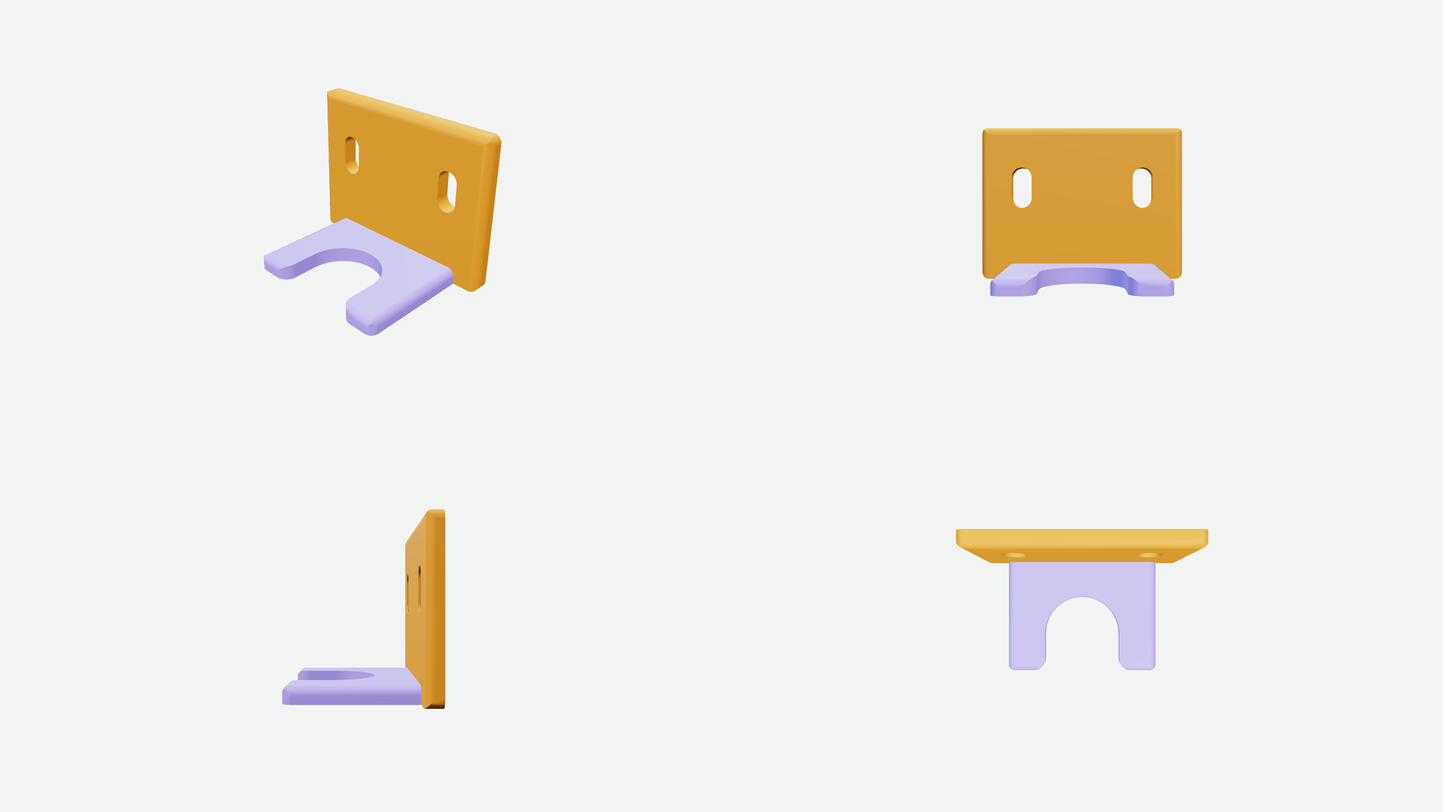
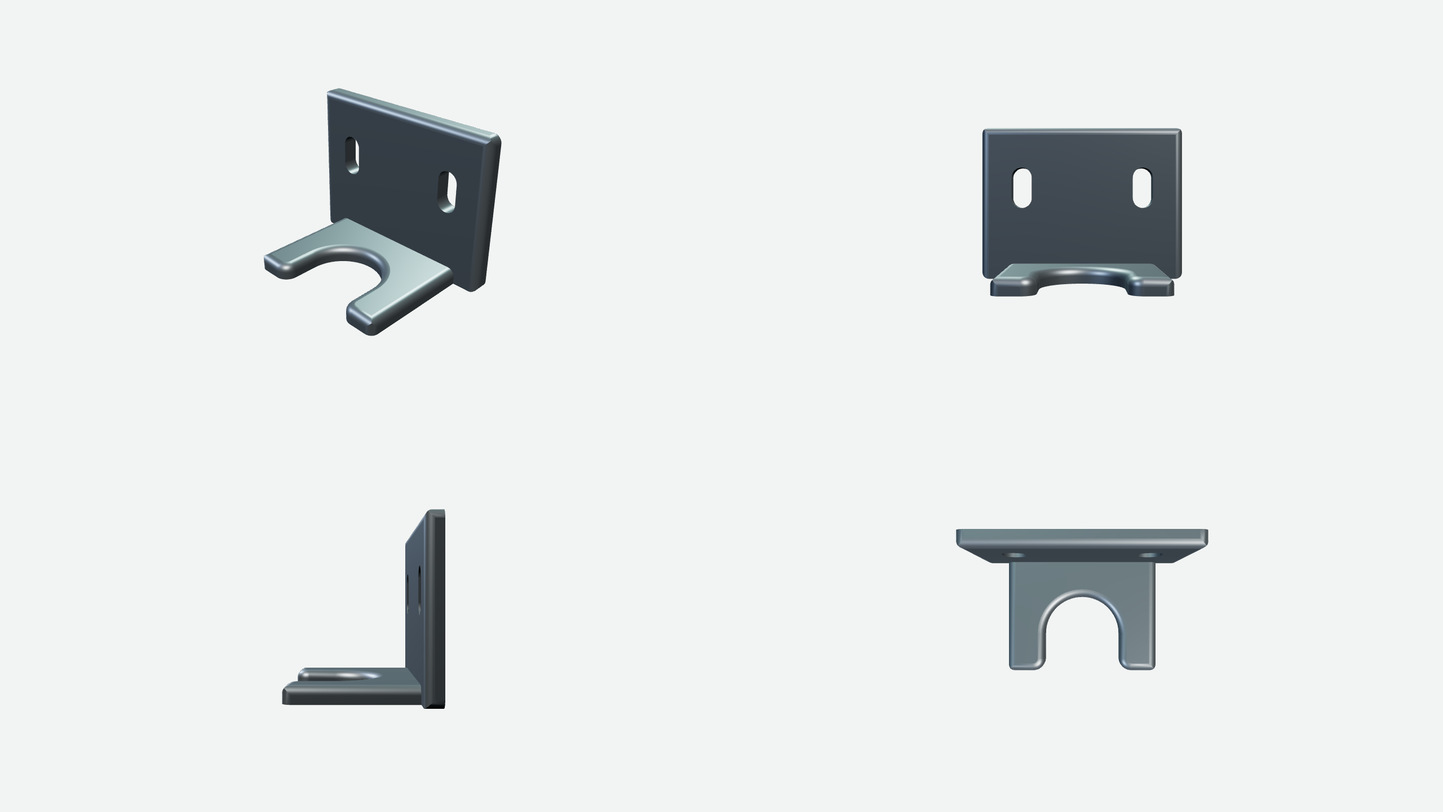
Suporte de tubo usa cadeia nas bordas livres, e o degrau reprova no descrever e no guarda:acervo
A aba do tubo arredonda a borda livre de cima (as duas bordas, as concordâncias e o
recorte) numa chamada com cadeia, antes das laterais e dos cantos livres, e sai do
descrever sem aviso. O veredito do descrever passa a reprovar aviso de degrau com a
mensagem dele (guarda:acervo herda, e --sem-veredito só mostra); os outros avisos
seguem informativos. As outras quatro peças do acervo não tinham degrau. Composta das
quatro vistas refeita com a peça nova.

Claude-Session: https://claude.ai/code/session_015i1y8CrgTgEfwGG2HEX8g8

diff --git a/procedural/nucleo/uso-operacoes.js b/procedural/nucleo/uso-operacoes.js
@@ -207,7 +207,7 @@ const definicoes = {
   espelha: { intencao: 'Duplicar faces refletidas, com modo estrutural opcional.', campos: { eixo: ['eixo', 'Normal do plano de espelho.'], pos: ['escalar', 'Posição do plano.'], [selecao[0]]: selecao.slice(1), [faces[0]]: faces.slice(1), origemId: ['origemId', 'Identidade da saída estrutural.'], derivaDe: ['origem', 'Origem completa copiada no modo estrutural.'] }, obrigatorios: ['eixo'], passos: cuboBase([['espelha', { eixo: 'x', origemId: 9, derivaDe: { op: 'cubo', id: 1 }, sel: { origem: { op: 'cubo', id: 1 } } }]]), precondicoes: ['Modo estrutural exige origemId, derivaDe e sel.origem equivalentes.'] },
   arranja: { intencao: 'Criar cópias lineares ou radiais com identidade estrutural.', campos: { modo: ['texto', "'linear' ou 'radial'."], total: ['inteiro', 'Total incluindo a fonte.'], d: ['vetor3', 'Passo linear.'], eixo: ['eixo', 'Eixo radial.'], graus: ['escalar', 'Passo angular.'], volta: ['escalar', 'Arco fechado.'], pivo: ['vetor3', 'Pivô radial.'], origemId: ['origemId', 'Identidade das cópias.'], derivaDe: ['origem', 'Origem-fonte.'], [selecao[0]]: selecao.slice(1), [faces[0]]: faces.slice(1), nomes: ['listaTextos', 'Um nome por cópia, total-1.'] }, obrigatorios: ['modo', 'total'], passos: cuboBase([['arranja', { modo: 'linear', total: 2, d: [2, 0, 0], origemId: 9, derivaDe: { op: 'cubo', id: 1 }, sel: { origem: { op: 'cubo', id: 1 } }, nomes: ['copia'] }]]), precondicoes: ['Modo estrutural requer origemId, derivaDe e seleção da origem completa.'], limites: ['Repetição radial é UMA descrição: seis abas de maça saem de um arranja radial com volta 360 e total 6. Descrever seis abas à mão é seis lugares para errar. Nomeie as cópias, porque posição não é identidade.'] },
   furo: { intencao: 'Abrir um ou vários furos estruturais passantes ou cegos.', campos: { origemId: ['origemId', 'Identidade obrigatória do corte.'], de: ['origem', 'Face de entrada.'], saida: ['origem', 'Face de saída no modo passante.'], profundidade: ['escalar', 'Profundidade no modo cego.'], centro: ['vetor3', 'Centro de um furo.'], centros: ['lista', 'Centros/grupos de vários furos.'], ate: ['vetor3', 'Segundo centro de um rasgo.'], raio: ['escalar', 'Raio positivo.'], lados: ['inteiro', 'Resolução da parede.'], orientacao: ['vetor3', 'Referência no plano da entrada.'] }, obrigatorios: ['origemId', 'de'], passos: [['cilindro', { origemId: 1, raio: 1, altura: 0.5, lados: 12 }], ['furo', { origemId: 9, de: { op: 'cilindro', id: 1, tampa: 'topo' }, saida: { op: 'cilindro', id: 1, tampa: 'fundo' }, centro: [0, 0.5, 0], raio: 0.15, lados: 8, orientacao: [1, 0, 0] }]], precondicoes: ['Declare centro ou centros e exatamente um entre saida e profundidade.'], limites: ['lados precisa ser ≡ 2 (mod 4) — 10, 14 ou 18, nunca múltiplo de 4. A seção começa com um vértice em 0°, então múltiplo de 4 põe outro VÉRTICE no topo, a 90°, e um furo centrado no eixo cai entre duas faces e não cabe em nenhuma. Foi o que destravou o olho do machado depois de lados:16 recusar em todas as estações.', 'de precisa resolver para exatamente UMA face, e ela precisa ser grande o bastante e plana. O furo tem de caber na face de entrada E na de saída, e as duas precisam se enxergar: com lados:12 o lado 2 enxerga o 9, e o 2 com o 8 não.', 'O furo CONSOME as faces de entrada e saída, que viram a borda anular do corte, e a origem antiga passa a ser recusada inteira. Una as duas origens num ALIAS, ou ponha a peça furada como primeira geometria e use sel:{tudo:true}.'] },
-  arredondarAresta: { intencao: 'Substituir uma aresta convexa por múltiplos painéis de raio geométrico.', campos: { origemId: ['origemId', 'Identidade da saída.'], de: ['origem', 'Face que contém a aresta (com aresta); não misture com sel.'], aresta: ['inteiro', 'Índice local da aresta na face de.'], [selecao[0]]: ['selecao', "Em vez de de + aresta: seleção que resolva para EXATAMENTE uma aresta, por exemplo {origem:{op:'cubo',id:1}, onde:{alvo:'aresta', normal:{dir:[0,1,0],ate:5}, extremo:{eixo:'z',lado:'max'}}}."], raio: ['escalar', 'Raio positivo.'], paineis: ['inteiro', 'Quantidade de painéis, mínimo 2.'], cadeia: ['booleanoOuObjeto', "Arredonda de uma vez a cadeia de arestas que continua em tangência a partir da escolhida, até o canto vivo ou até fechar o laço: true ou {ate: graus}, o ângulo máximo entre arestas consecutivas da cadeia (padrão 30)."] }, obrigatorios: ['origemId', 'raio', 'paineis'], passos: cuboBase([['arredondarAresta', { origemId: 9, de: origemTopo, aresta: 0, raio: 0.1, paineis: 2 }]]), precondicoes: ['Declare de + aresta ou sel, nunca os dois.'], limites: ['Cada lado da aresta é uma face convexa ou um grupo de faces coplanares que se tocam por aresta, como a tampa partida de um perfil com furo ou de um contorno por trechos.', 'Num grupo, o raio é conferido contra todos os vértices dele e recusa com o vértice quando não cabe; peça de tampa que uma quina quase reta deixa côncava é partida em peças convexas, e a recusa fica para o que se atravessa ou se inverte. O canto da tampa partida em leque (a chapa com furos vista de cima, com a aresta ao longo da espessura) arredonda; o remate de uma segunda aresta sobre ele pede a tampa partida em outra ordem: arredonde antes as arestas da tampa e depois as do canto. Onde a face de ponta é quase paralela à aresta (borda livre que termina numa concordância do contorno) e o arco não cabe no plano dela, o arco termina na seção perpendicular, com um degrau plano, e a faixa volta a ser citável pela origem sem `painel`.', 'Onde a ponta da aresta já é ponta de uma faixa arredondada ou chanfrada por outra aresta, o canto fecha em esquadria (cantos-arredondados.js): o mesmo raio e o mesmo número de painéis nas arestas do canto, arestas a 90°, e número par de painéis onde três arestas se encontram. Fora disso o passo recusa com a causa e a malha fica como estava.', 'Com sel, a face de apoio é a de menor id entre as que usam a aresta.', 'Onde a ponta da aresta encontra uma face quase paralela a ela (a faceta de uma concordância que continua a borda em tangência), o arco não cabe no plano da vizinha e termina na seção perpendicular, com um degrau plano: o resultado traz um aviso em neutro.avisos (ref degrau, com a aresta, o motivo e a sugestão) e o descrever o mostra na seção AVISOS DO NÚCLEO, sem reprovar a peça.', 'cadeia (true, ou {ate: graus}, 30 por padrão) arredonda numa varredura só a aresta escolhida e as que continuam em tangência a partir dela, até um canto vivo (onde a aresta seguinte dobra mais que ate graus) ou até fechar o laço: sem tampa nem degrau nas junções, com o raio podendo passar do comprimento das facetas. A tampa é um grupo de faces coplanares e as paredes são perpendiculares a ela (extrusão reta, furo ou recorte de contorno por trechos); o anel de cada vértice é a seção no plano bissetor das duas arestas vizinhas e a faixa sai aresta por aresta, nos painéis de `{op:\'arredondarAresta\', id}`. Recusa, sem escrever, o diedro diferente de 90°, o raio que passa da altura da parede ou do raio de curvatura de um trecho convexo do contorno (o recorte côncavo não limita), a ponta aguda demais, a ponta em tangência que a cadeia não seguiu, o vértice da tampa mais perto que o raio e a cadeia que volta ao próprio vértice. Arredonde a cadeia antes das arestas do canto.'] },
+  arredondarAresta: { intencao: 'Substituir uma aresta convexa por múltiplos painéis de raio geométrico.', campos: { origemId: ['origemId', 'Identidade da saída.'], de: ['origem', 'Face que contém a aresta (com aresta); não misture com sel.'], aresta: ['inteiro', 'Índice local da aresta na face de.'], [selecao[0]]: ['selecao', "Em vez de de + aresta: seleção que resolva para EXATAMENTE uma aresta, por exemplo {origem:{op:'cubo',id:1}, onde:{alvo:'aresta', normal:{dir:[0,1,0],ate:5}, extremo:{eixo:'z',lado:'max'}}}."], raio: ['escalar', 'Raio positivo.'], paineis: ['inteiro', 'Quantidade de painéis, mínimo 2.'], cadeia: ['booleanoOuObjeto', "Arredonda de uma vez a cadeia de arestas que continua em tangência a partir da escolhida, até o canto vivo ou até fechar o laço: true ou {ate: graus}, o ângulo máximo entre arestas consecutivas da cadeia (padrão 30)."] }, obrigatorios: ['origemId', 'raio', 'paineis'], passos: cuboBase([['arredondarAresta', { origemId: 9, de: origemTopo, aresta: 0, raio: 0.1, paineis: 2 }]]), precondicoes: ['Declare de + aresta ou sel, nunca os dois.'], limites: ['Cada lado da aresta é uma face convexa ou um grupo de faces coplanares que se tocam por aresta, como a tampa partida de um perfil com furo ou de um contorno por trechos.', 'Num grupo, o raio é conferido contra todos os vértices dele e recusa com o vértice quando não cabe; peça de tampa que uma quina quase reta deixa côncava é partida em peças convexas, e a recusa fica para o que se atravessa ou se inverte. O canto da tampa partida em leque (a chapa com furos vista de cima, com a aresta ao longo da espessura) arredonda; o remate de uma segunda aresta sobre ele pede a tampa partida em outra ordem: arredonde antes as arestas da tampa e depois as do canto. Onde a face de ponta é quase paralela à aresta (borda livre que termina numa concordância do contorno) e o arco não cabe no plano dela, o arco termina na seção perpendicular, com um degrau plano, e a faixa volta a ser citável pela origem sem `painel`.', 'Onde a ponta da aresta já é ponta de uma faixa arredondada ou chanfrada por outra aresta, o canto fecha em esquadria (cantos-arredondados.js): o mesmo raio e o mesmo número de painéis nas arestas do canto, arestas a 90°, e número par de painéis onde três arestas se encontram. Fora disso o passo recusa com a causa e a malha fica como estava.', 'Com sel, a face de apoio é a de menor id entre as que usam a aresta.', 'Onde a ponta da aresta encontra uma face quase paralela a ela (a faceta de uma concordância que continua a borda em tangência), o arco não cabe no plano da vizinha e termina na seção perpendicular, com um degrau plano: o resultado traz um aviso em neutro.avisos (ref degrau, com a aresta, o motivo e a sugestão) e o descrever o mostra na seção AVISOS DO NÚCLEO e reprova o veredito da peça (guarda:acervo inclusive).', 'cadeia (true, ou {ate: graus}, 30 por padrão) arredonda numa varredura só a aresta escolhida e as que continuam em tangência a partir dela, até um canto vivo (onde a aresta seguinte dobra mais que ate graus) ou até fechar o laço: sem tampa nem degrau nas junções, com o raio podendo passar do comprimento das facetas. A tampa é um grupo de faces coplanares e as paredes são perpendiculares a ela (extrusão reta, furo ou recorte de contorno por trechos); o anel de cada vértice é a seção no plano bissetor das duas arestas vizinhas e a faixa sai aresta por aresta, nos painéis de `{op:\'arredondarAresta\', id}`. Recusa, sem escrever, o diedro diferente de 90°, o raio que passa da altura da parede ou do raio de curvatura de um trecho convexo do contorno (o recorte côncavo não limita), a ponta aguda demais, a ponta em tangência que a cadeia não seguiu, o vértice da tampa mais perto que o raio e a cadeia que volta ao próprio vértice. Arredonde a cadeia antes das arestas do canto.'] },
   filete: { intencao: 'Criar chanfro plano compatível com o filete v1.', campos: { origemId: ['origemId', 'Identidade da saída.'], de: ['origem', 'Face que contém a aresta (com aresta); não misture com sel.'], aresta: ['inteiro', 'Índice local da aresta na face de.'], [selecao[0]]: ['selecao', "Em vez de de + aresta: seleção que resolva para EXATAMENTE uma aresta, por exemplo {origem:{op:'cubo',id:1}, onde:{alvo:'aresta', normal:{dir:[0,1,0],ate:5}, extremo:{eixo:'z',lado:'max'}}}."], raio: ['escalar', 'Recuo do painel.'] }, obrigatorios: ['origemId'], passos: cuboBase([['filete', { origemId: 9, sel: { origem: { op: 'cubo', id: 1 }, onde: { alvo: 'aresta', normal: { dir: [0, 1, 0], ate: 5 }, extremo: { eixo: 'z', lado: 'max' } } }, raio: 0.1 }]]), precondicoes: ['Declare de + aresta ou sel, nunca os dois.'], limites: ['Não é arredondamento multi-painel. O canto de duas arestas chanfradas fecha em esquadria; o de três é recusado, porque o vértice triplo pede um número par de painéis.', 'Numa tampa partida (grupo de faces coplanares) o recuo é conferido contra todos os vértices do grupo e recusa quando não cabe; o canto em leque, a peça de tampa que fica côncava e a ponta oblíqua seguem as regras do `arredondarAresta`.', 'Com sel, a face de apoio é a de menor id entre as que usam a aresta.'] },
   unir: { intencao: 'Fundir dois ou mais sólidos fechados numa superfície fechada só, sem face interna.', campos: { origemId: ['origemId', 'Identidade obrigatória do resultado e da costura.'], solidos: ['lista', 'Duas ou mais seleções, uma por sólido.'] }, obrigatorios: ['origemId', 'solidos'], passos: [['cubo', { origemId: 1, lado: 1 }], ['cubo', { origemId: 2, lado: 1, em: [0.5, 0.5, 0.5] }], ['unir', { origemId: 9, solidos: [{ origem: { op: 'cubo', id: 1 } }, { origem: { op: 'cubo', id: 2 } }] }]], precondicoes: ['Cada seleção precisa formar um sólido fechado e orientado depois de soldar cantos coincidentes; duas seleções não dividem face.'], limites: ['Face não tocada mantém id e cantos; face cortada mantém o id no maior pedaço convexo; pedaço a mais ganha id novo no bloco do passo; face que some é consumida e a citação dela grita.', 'Cite a costura com {op:\'unir\', id, costura:true}.', 'Resultado vazio grita.'] },
   subtrair: { intencao: 'Tirar do primeiro sólido o volume dos demais.', campos: { origemId: ['origemId', 'Identidade obrigatória do resultado e da costura.'], solidos: ['lista', 'Duas ou mais seleções: a primeira é a peça, as demais são tiradas dela.'] }, obrigatorios: ['origemId', 'solidos'], passos: [['cubo', { origemId: 1, lado: 1 }], ['cubo', { origemId: 2, lado: 1, em: [0.5, 0.5, 0.5] }], ['subtrair', { origemId: 9, solidos: [{ origem: { op: 'cubo', id: 1 } }, { origem: { op: 'cubo', id: 2 } }] }]], precondicoes: ['Cada seleção precisa formar um sólido fechado e orientado depois de soldar cantos coincidentes; duas seleções não dividem face.'], limites: ['Face não tocada mantém id e cantos; face cortada mantém o id no maior pedaço convexo; pedaço a mais ganha id novo no bloco do passo; face que some é consumida e a citação dela grita.', 'Cite a costura com {op:\'subtrair\', id, costura:true}.', 'Resultado vazio grita.'] },

diff --git a/procedural/pecas/suporte-tubo/receita.js b/procedural/pecas/suporte-tubo/receita.js
@@ -31,9 +31,11 @@
  * baixo ficam vivas, e uma chapa de 6 mm não comporta 3 mm de arredondamento nas
  * duas faces da mesma borda. Os furos e o recorte ficam com a aresta viva.
  *
- * As duas bordas livres da face de cima da aba do tubo são separadas pelo recorte e
- * têm o mesmo extremo em z; cada uma é escolhida pela `regiao` da face de ponta
- * dela, que sai da tabela.
+ * As duas bordas livres da face de cima da aba do tubo e o contorno do recorte são uma
+ * cadeia só em tangência, de um canto vivo ao outro, arredondada por `cadeia` numa
+ * chamada, sem degrau. As duas bordas têm o mesmo extremo em z; a aresta de partida é
+ * escolhida pela `regiao` da face de ponta da borda da direita, que sai da tabela, e a
+ * cadeia vem antes das laterais e dos cantos livres.
  */
 
 export const TABELA = {
@@ -130,7 +132,7 @@ export function derivar(t = TABELA) {
           { reto: [-Lt / 2, zFora] },
         ],
       },
-      pontaLivre: { direita: pontaLivre(1), esquerda: pontaLivre(-1) },
+      pontaLivre: { direita: pontaLivre(1) },
     },
   };
 }
@@ -156,12 +158,13 @@ const ARESTAS_PAREDE = [
   { nome: 'canto de baixo à esquerda', normal: 'baixo', eixo: 'x', lado: 'min' },
 ];
 const ARESTAS_TUBO = [
-  { nome: 'canto livre à direita', normal: 'direita', eixo: 'z', lado: 'max' },
-  { nome: 'canto livre à esquerda', normal: 'esquerda', eixo: 'z', lado: 'max' },
+  /* A borda livre de cima é uma cadeia só: reto, concordância, reto, semicírculo do recorte, reto, concordância e reto, de um
+     canto vivo ao outro. Uma chamada com `cadeia` a arredonda sem degrau, e ela vem antes das laterais e dos cantos livres. */
+  { nome: 'borda livre de cima', cadeia: true, dentro: 'pontaDireita', normal: 'cima', eixo: 'z', lado: 'max' },
   { nome: 'borda lateral direita de cima', normal: 'cima', eixo: 'x', lado: 'max' },
   { nome: 'borda lateral esquerda de cima', normal: 'cima', eixo: 'x', lado: 'min' },
-  { nome: 'borda livre de cima à direita', dentro: 'pontaDireita', normal: 'cima', eixo: 'z', lado: 'max' },
-  { nome: 'borda livre de cima à esquerda', dentro: 'pontaEsquerda', normal: 'cima', eixo: 'z', lado: 'max' },
+  { nome: 'canto livre à direita', normal: 'direita', eixo: 'z', lado: 'max' },
+  { nome: 'canto livre à esquerda', normal: 'esquerda', eixo: 'z', lado: 'max' },
 ];
 
 const idDoArredondamento = (base, aresta, arestas) => base + arestas.indexOf(aresta);
@@ -193,13 +196,13 @@ export function gerarPassos(t = TABELA) {
     const dentro = {
       padrao: { origem: { op: 'extrusao', id: extrusao } },
       pontaDireita: { regiao: P.abaTubo.pontaLivre.direita },
-      pontaEsquerda: { regiao: P.abaTubo.pontaLivre.esquerda },
     };
     for (const aresta of arestas) {
       passos.push(['arredondarAresta', {
         origemId: idDoArredondamento(base, aresta, arestas),
         raio: P.raioDoArredondamento,
         paineis: t.paineisDoArredondamento,
+        ...(aresta.cadeia ? { cadeia: true } : {}),
         sel: {
           ...dentro[aresta.dentro ?? 'padrao'],
           onde: { alvo: 'aresta', normal: { dir: NORMAL[aresta.normal], ate: 5 }, extremo: { eixo: aresta.eixo, lado: aresta.lado } },

diff --git a/procedural/nucleo/operacoes/aviso-de-degrau.test.ts b/procedural/nucleo/operacoes/aviso-de-degrau.test.ts
@@ -124,14 +124,26 @@ describe('o veredito da peça e a descrição mostram o aviso', () => {
     expect(formatarDescricao(d, { peca: 'aba-do-tubo' })).not.toMatch(/AVISOS DO NÚCLEO/);
   });
 
-  it('descrever mostra o aviso na saída e na saída de erro, sem reprovar a peça', async () => {
+  it('descrever reprova o degrau com a mensagem do aviso, e a peça sem veredito só o mostra', async () => {
     const receita = { meta: { nome: 'aba-do-tubo' }, PASSOS: passos };
     const r = await descreverPecaReutilizavel({ peca: 'aba-do-tubo', modulo: receita });
-    expect(r.ok, r.stderr).toBe(true);
-    expect(r.codigo).toBe(0);
+    expect(r.ok).toBe(false);
+    expect(r.codigo).toBe(1);
     expect(r.stdout).toMatch(/AVISOS DO NÚCLEO \(1\)/);
-    expect(r.stderr).toMatch(/1 AVISO\(S\) DO NÚCLEO/);
-    expect(r.resultado.avisos).toHaveLength(1);
+    expect(r.stderr).toMatch(/1 ARREDONDAMENTO\(S\) TERMINADO\(S\) EM DEGRAU/);
+    expect(r.stderr).toContain(r.resultado.avisos[0].motivo);
+    expect(r.stderr).toMatch(/sugestão: .*cadeia/);
     expect(r.resultado.avisos[0].ref).toBe('degrau');
+    const sem = await descreverPecaReutilizavel({ peca: 'aba-do-tubo', modulo: receita, semVeredito: true });
+    expect(sem.ok, sem.stderr).toBe(true);
+    expect(sem.stderr).toMatch(/1 AVISO\(S\) DO NÚCLEO/);
+  });
+
+  it('com cadeia no mesmo passo o veredito passa sem aviso', async () => {
+    const ok = comParte([abaDoTubo(), ['arredondarAresta', { origemId: 2, raio: mm(3), paineis: PAINEIS, cadeia: true, sel: bordaLivreDaDireita }]]);
+    const r = await descreverPecaReutilizavel({ peca: 'aba-do-tubo', modulo: { meta: { nome: 'aba-do-tubo' }, PASSOS: ok } });
+    expect(r.ok, r.stderr).toBe(true);
+    expect(r.resultado.avisos).toEqual([]);
+    expect(r.stdout).not.toMatch(/AVISOS DO NÚCLEO/);
   });
 });

diff --git a/docs/mecanifica/UPSTREAM-NOS.md b/docs/mecanifica/UPSTREAM-NOS.md
@@ -25,7 +25,7 @@ autoriza implementação ou alteração no repositório original.
 | `arredondarAresta` e `filete` numa tampa partida (perfil com furo ou contorno por trechos) | entregue no núcleo, provado por teste: as faces coplanares que se tocam por aresta contam como uma face só; duas bordas do topo de uma chapa com furo oblongo e de um contorno com arco arredondadas em 3 mm por `sel.onde`, com casca fechada, faces planas fora da faixa, raio medido por três pontos, volume retirado conferido e recusa clara quando o raio passa de um vértice da tampa | `procedural/nucleo/operacoes/arestas-em-grupos.js`, `operacoes/estruturais.js`, `operacoes/arredondar-tampa-partida.test.ts` | a tangência escorrega ao longo da aresta vizinha até o plano da face de ponta; o canto composto de uma tampa partida é recusado; mexe só em `estruturais.js` e num arquivo novo, e as faces de um lado só seguem pelo caminho antigo |
 | o canto onde duas ou três arestas de `arredondarAresta` ou `filete` se encontram | entregue no núcleo, provado por teste: a caixa de 100 mm com as 12 arestas arredondadas por `sel.onde` (80 vértices, 78 faces, todas planas, os 78 planos conferidos contra os calculados à mão, raio medido em cada ponto de painel) e a chapa com furo com as quatro bordas do topo (volume retirado igual à soma dos prismas menos a sobreposição dos quatro cantos), em cinco ordens de aplicação com os mesmos polígonos; antes, o segundo arredondamento num canto de face inteira deixava o painel do primeiro até 9,75 mm fora do plano e numa tampa partida era recusado | `procedural/nucleo/operacoes/cantos-arredondados.js`, `operacoes/arestas-em-grupos.js`, `operacoes/estruturais.js`, `operacoes/arredondar-canto.test.ts` | o remate é a esquadria dos dois prismas: o anel de pontas da faixa antiga escorrega ao longo do eixo até o encontro das retas de vértice e vira também o da nova, e no canto de três o vértice triplo cai a 45° do arco; exige o mesmo raio e o mesmo número de painéis nas arestas do canto, arestas a 90° e, onde três arestas se encontram, número par de painéis (o `filete` de um painel fecha o canto de duas e recusa o de três), e recusa com a causa sem escrever nada quando a condição falha; mexe em `estruturais.js` (a condição que manda a aresta pelo caminho em grupos), em `uso-operacoes.js` (os limites das duas ops) e num arquivo novo |
 | `arredondarAresta` e `filete` nos cantos de uma chapa com furos, na borda lateral de uma tampa partida e na borda livre que termina numa concordância | entregue no núcleo, provado por teste com peças mínimas: os quatro cantos da aba com furos ao longo da espessura (vértice com 19 a 34 faces na tampa em leque) arredondam com casca fechada, faces planas e volume igual a quatro vezes a seção do arco vezes a espessura; a borda lateral da tampa arredonda igual com 4, 6, 8, 10, 12, 16 e 24 segmentos por quarto de volta (antes passava ou recusava conforme esse número); as duas bordas livres de uma aba com recorte e concordância arredondam com o volume exato da seção do arco vezes 10 mm | `procedural/nucleo/operacoes/arestas-em-grupos.js`, `operacoes/estruturais.js`, `nucleo.js` (a origem do arredondamento passa a citar o degrau), `uso-operacoes.js`, `operacoes/arredondar-chapa-furada.test.ts` | a ponta em leque entrega o arco à vizinha de B e leva o vértice à tangência nas outras; a peça de tampa que fica côncava é partida em convexas e entra na tampa da extrusão; a ponta oblíqua que o escorregamento não comporta termina na seção perpendicular, com o triângulo da tampa e um degrau plano em leque, só depois de o modo comum recusar e com a área perdida pela tampa conferida contra a da faixa; o remate de uma segunda aresta sobre um canto cuja tampa é um leque continua recusado (a tampa vem antes dos cantos); o contorno que volta sobre a faixa continua recusado; mexe em `estruturais.js` (a condição que manda a aresta ao caminho em grupos), em `nucleo.js` (dois resolvedores de origem) e em `uso-operacoes.js` |
-| `arredondarAresta` com `cadeia` e o aviso do degrau | entregue no núcleo, provado por teste: a borda livre de cima da aba do tubo (reto, concordância de 5 mm em 16 facetas, reto, semicírculo do recorte em 32, reto, concordância e reto, 68 arestas) arredonda em 3 mm numa chamada só, sem face de degrau, com o desvio de cada vértice ao eixo do cilindro da aresta abaixo de 1e-9 e o volume retirado igual a comprimento × seção − esquadrias × momento da seção a 1e-9 relativo; o mesmo no laço fechado de um estádio e de um cilindro, no aro côncavo de um furo oblongo (inclusive com raio acima do raio do furo) e em arco de segmento circular com pontas a 100° e 160°; o degrau passa a deixar aviso em `neutro.avisos`, que `descrever` mostra | `procedural/nucleo/operacoes/arestas-em-cadeia.js`, `operacoes/arestas-em-grupos.js` (o aviso e quatro exportações), `operacoes/cantos-arredondados.js` (a faixa de uma cadeia vista de um canto), `operacoes/estruturais.js`, `uso-operacoes.js`, `operacoes/arredondar-cadeia.test.ts`, `operacoes/aviso-de-degrau.test.ts`; `src/autoria/descrever-partes.js` e `tools/mecanifica/descrever-peca.mjs` para o aviso | a cadeia exige a tampa plana e as paredes perpendiculares a ela e recusa o diedro diferente de 90°, o raio que passa da altura da parede ou do raio de curvatura de um trecho convexo, a ponta aguda demais e a cadeia que volta ao próprio vértice; o recorte côncavo não limita o raio; o anel de cada vértice é a esquadria dos cilindros vizinhos; os painéis saem aresta por aresta e o remate dos cantos reconhece a faixa da aresta da ponta; `descrever` ganha a seção AVISOS DO NÚCLEO só quando há aviso, e `descricao.avisos` é uma lista (vazia quando não há); o aviso não reprova |
+| `arredondarAresta` com `cadeia` e o aviso do degrau | entregue no núcleo, provado por teste: a borda livre de cima da aba do tubo (reto, concordância de 5 mm em 16 facetas, reto, semicírculo do recorte em 32, reto, concordância e reto, 68 arestas) arredonda em 3 mm numa chamada só, sem face de degrau, com o desvio de cada vértice ao eixo do cilindro da aresta abaixo de 1e-9 e o volume retirado igual a comprimento × seção − esquadrias × momento da seção a 1e-9 relativo; o mesmo no laço fechado de um estádio e de um cilindro, no aro côncavo de um furo oblongo (inclusive com raio acima do raio do furo) e em arco de segmento circular com pontas a 100° e 160°; o degrau passa a deixar aviso em `neutro.avisos`, que `descrever` mostra | `procedural/nucleo/operacoes/arestas-em-cadeia.js`, `operacoes/arestas-em-grupos.js` (o aviso e quatro exportações), `operacoes/cantos-arredondados.js` (a faixa de uma cadeia vista de um canto), `operacoes/estruturais.js`, `uso-operacoes.js`, `operacoes/arredondar-cadeia.test.ts`, `operacoes/aviso-de-degrau.test.ts`; `src/autoria/descrever-partes.js` e `tools/mecanifica/descrever-peca.mjs` para o aviso | a cadeia exige a tampa plana e as paredes perpendiculares a ela e recusa o diedro diferente de 90°, o raio que passa da altura da parede ou do raio de curvatura de um trecho convexo, a ponta aguda demais e a cadeia que volta ao próprio vértice; o recorte côncavo não limita o raio; o anel de cada vértice é a esquadria dos cilindros vizinhos; os painéis saem aresta por aresta e o remate dos cantos reconhece a faixa da aresta da ponta; `descrever` ganha a seção AVISOS DO NÚCLEO só quando há aviso, e `descricao.avisos` é uma lista (vazia quando não há); o aviso de degrau reprova o veredito do `descrever` e o `guarda:acervo`, e os outros avisos só aparecem |
 | `sin`, `cos`, `tan`, `atan`, `atan2` e `sqrt` nas expressões | entregue no núcleo, provado por teste; o ângulo entra e sai em graus, como `graus` das operações | `procedural/nucleo/expressoes.js`, `expressoes.test.ts` | lista fechada de funções; `sqrt` recusa número negativo |
 | casca com espessura (`casca`), extensão nativa | entregue, provada por teste: caixa, cilindro e loft com zero, uma e duas faces abertas, espessura medida na malha dentro de 2% da pedida, determinismo e recusas | `procedural/nucleo/casca.js`, `procedural/extensoes/casca/`, `procedural/nucleo/casca.test.mjs`, `procedural/nucleo/nucleo.js` (leitura de sólido no contexto da extensão) | recua cada face pelo plano e não usa `levelSet`; sólido fechado e de faces planas, até 1000 ids novos por passo; sólido convexo em qualquer valência de vértice (até 150 faces), côncavo só com três faces por vértice; em aresta côncava a parede engrossa perto do vértice; face aberta oblíqua pede parede fina; só para dentro, sem o lado de fora |
 | orientação de seção | entregue em `loft` | `loft-fechado.test.ts`, núcleo | costura de `lathe` continua aberta |

diff --git a/docs/mecanifica/CONTEXTO-FERRAMENTAS-DE-MODELAGEM.md b/docs/mecanifica/CONTEXTO-FERRAMENTAS-DE-MODELAGEM.md
@@ -276,10 +276,11 @@ núcleo escreve quando a borda termina numa concordância. A peça passou em
 
 O degrau do suporte, que a pessoa viu na imagem, não era acusado por gate nem por
 aviso: `orfaos` ficava em 0 e a face a mais só aparecia na origem do
-arredondamento. Duas correções entraram no núcleo. O degrau passou a deixar um
+arredondamento. Duas correções entraram no núcleo e uma no gate. O degrau passou a deixar um
 aviso em `neutro.avisos` (`ref: 'degrau'`, com a aresta, a ponta, o motivo e a
-sugestão), que `descrever` mostra na descrição e na saída de erro sem reprovar a
-peça; na receita do suporte ele aparece nos passos das duas bordas livres. E
+sugestão), que `descrever` mostra na descrição e que reprova o veredito da peça e o
+`guarda:acervo` com a mensagem do aviso. O suporte passou a usar `cadeia` nas duas
+bordas livres e sai sem aviso; as outras quatro peças do acervo não tinham degrau. E
 `arredondarAresta` ganhou `cadeia` (`true` ou `{ ate: graus }`): a aresta
 escolhida e as que continuam em tangência saem numa varredura só, do canto vivo de
 um lado ao do outro ou no laço inteiro, sem degrau, com o raio medido em cada
@@ -290,8 +291,7 @@ contorno interno que o deslocamento da `CrossSection` (conferido na malha a 0,1 
 a quantização do Clipper) e, ao contrário de derivar a borda da extrusão pelos
 contornos deslocados, serve também a uma tampa que já existe na peça, a um furo e
 às arestas que as outras operações deixaram. A cadeia entra antes das arestas do
-canto; a receita do suporte ainda usa uma chamada por borda livre e passa a usar
-a cadeia quando a pessoa pedir a refeitura.
+canto, e a receita do suporte já segue essa ordem (cadeia, laterais, cantos livres).
 
 ## Depois do plano
 

diff --git a/.claude/skills/criar-peca/references/operacoes-procedurais.md b/.claude/skills/criar-peca/references/operacoes-procedurais.md
@@ -366,8 +366,9 @@ carregava o raio reduzido por `raioMinimo`, fora da forma canônica) com `ref:
 'degrau'`, a aresta (vértices e extremos), a ponta, o ângulo que a face vizinha
 faz com ela, o motivo e a sugestão. `npm run descrever` o mostra na seção AVISOS
 DO NÚCLEO da descrição e numa linha da saída de erro, e `resultado.avisos` o leva
-a quem chama; o aviso não reprova a peça, porque a malha fecha. Quem lê o aviso
-troca a chamada por `cadeia`.
+a quem chama. O degrau reprova no veredito do `descrever` (e, por ele, em
+`guarda:acervo`) com a mensagem do aviso, mesmo com a malha fechada; com
+`--sem-veredito` ele só aparece. Quem lê o aviso troca a chamada por `cadeia`.
 
 `cadeia` arredonda numa chamada só a aresta escolhida e as que continuam em
 tangência a partir dela, até um canto vivo ou até fechar o laço: `cadeia: true`

diff --git a/docs/mecanifica/banco-de-provas/suporte-tubo-2026-10-10/README.md b/docs/mecanifica/banco-de-provas/suporte-tubo-2026-10-10/README.md
@@ -22,3 +22,5 @@ de qualquer peça de chapa com furo, e o suporte é refeito depois dela.
 O suporte foi refeito em 2026-10-11, sem a interseção com caixas, em
 [`procedural/pecas/suporte-tubo/`](../../../../procedural/pecas/suporte-tubo/receita.js);
 esta pasta fica como o registro da primeira versão.
+
+A [composta](composta.png) desta pasta foi refeita em 2026-10-11 com a peça nova (as quatro vistas: isométrica, frontal, direita e superior), em que as duas bordas livres de cima da aba do tubo, as concordâncias e o recorte saem arredondados por uma `cadeia`, sem degrau. A [receita](receita.js) desta pasta continua sendo a da primeira versão.

diff --git a/docs/mecanifica/FILETE-V2.md b/docs/mecanifica/FILETE-V2.md
@@ -86,7 +86,7 @@ faceta seguinte de uma concordância é quase paralela à aresta, o arco não ca
 plano dela e termina na seção perpendicular, com um degrau plano. Esse modo existe
 em `operacoes/arestas-em-grupos.js` e passou a deixar um aviso em
 `neutro.avisos` (`ref: 'degrau'`: a aresta, a ponta, o ângulo da vizinha, o
-motivo e a sugestão), que `descrever` mostra sem reprovar a peça.
+motivo e a sugestão), que `descrever` mostra e que reprova o veredito da peça (e o `guarda:acervo`).
 
 `cadeia: true` ou `cadeia: { ate: graus }` (padrão 30, o mesmo nome de
 `normal.ate` de `selecao-geometrica.js`) arredonda numa varredura só a aresta

diff --git a/docs/mecanifica/gerado/CATALOGO-CAPACIDADES.md b/docs/mecanifica/gerado/CATALOGO-CAPACIDADES.md
@@ -2,7 +2,7 @@
 
 > Gerado por `npm run catalogo:gerar`; não edite à mão. A fonte é o registro explícito do motor.
 
-Assinatura do registro: `sha256:309953d762b7b1c0269fbd7177dbbd23cf2bfaf80a1df3a39c85770c163f9c6e`.
+Assinatura do registro: `sha256:60cc344cb88a60b685391648e248a32a38838ff6796a17f491682cb9cdc70cf2`.
 
 Há 37 operações em 1 módulo(s).
 
